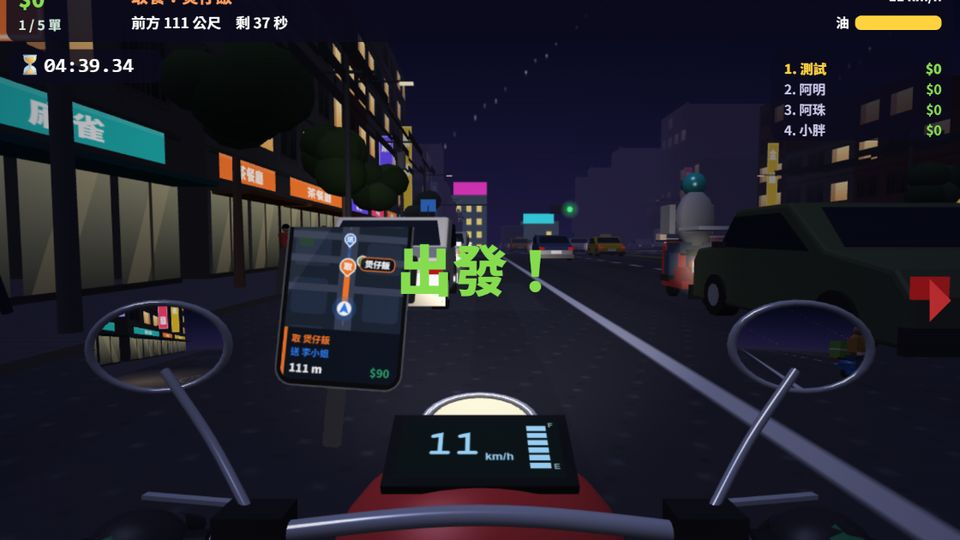
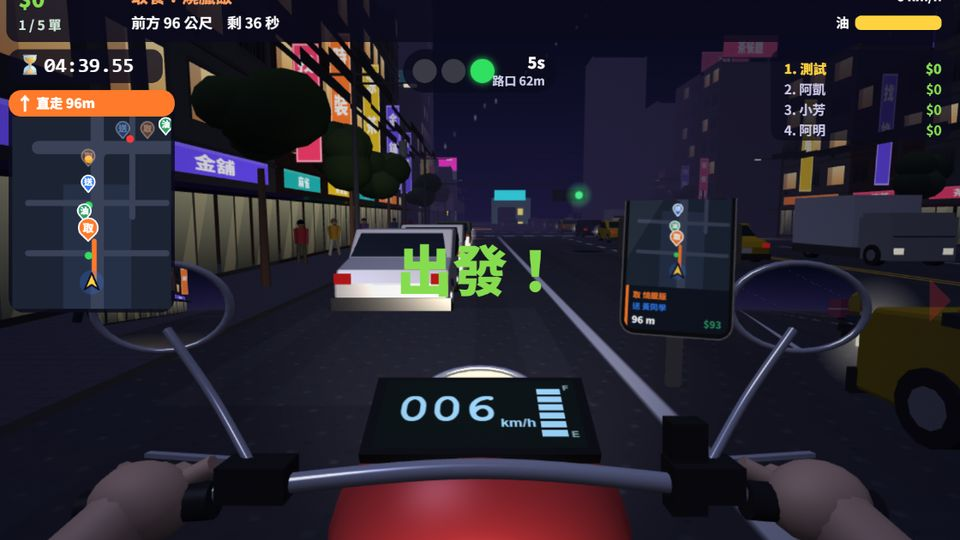
外送王：參考截圖改畫面——機車露出雙手前臂、手機夾右邊把手、三位數時速；Uber 車內雙指針儀表＋雙手握方向盤＋手機導航；腳踏車改第三人稱看得到自己騎車；客人金色人形＋驚嘆號＋光圈；街上加棕櫚樹、屋頂大看板、遠方玻璃高樓 (v281)

diff --git a/deliver3d.js b/deliver3d.js
@@ -164,8 +164,10 @@ function make(T,o){ const {W,H,lv,S,M,ROADW,LANE,PAL,shade,hash,hcol,lightOf,cro
       boxG(L,xs,xs+o*1.1,d1,d2,v0-.6,v0+.6,shd(b.col,.8*dim)); }
     // 直招牌（伸出來，正對騎士）
     if(S.pal!=='us'&&hash(id,70)<.8){ const ds=lerp(d1,d2,.12+hash(id,71)*.4),v1=G+4,v2=Math.min(hh-2,v1+56+hash(id,72)*44),tx=hcol(S.sign,id+9,74),sc=pal.sign[(S.sign.indexOf(tx)+(id%2?2:0))%pal.sign.length],uv=vUV[tx+sc],B=night?Gl:L; if(uv){ panelD(B,xs+o*3,xs+o*16,ds,v1,v2,uv,'#ffffff'); panelD(B,xs+o*3,xs+o*16,ds+1,v1,v2,uv,'#ffffff',true); boxG(L,xs,xs+o*3,ds,ds+1,v1+5,v1+7,'#555'); } }
-    // 後面再一排，路口往旁邊看才不會空空的
-    if(id%3===0){ const bh=70+hash(id,90)*170,xb2=xb-o*40,xb3=xb2-o*200,cc=shd(hcol(pal.bld,id,91),dim*.92); wallX(L,xb2,o,d1,d2,0,bh,null,cc); panelD(L,xb2,xb3,d1,0,bh,null,cc); boxG(L,xb2,xb3,d1,d2,bh,bh+2,shd('#6a6864',dim)); } }
+    // 屋頂大看板（正對騎士）
+    if(S.pal!=='us'&&hash(id,93)<.3&&d2-d1>36&&S.sign.length){ const ti=Math.floor(hash(id,94)*S.sign.length),tx=S.sign[ti],uv=hUV[tx+pal.sign[ti%pal.sign.length]],ds=d1+8,y0=hh+9,y1=hh+40,B=night?Gl:L; if(uv){ panelD(B,xs-o*6,xs-o*86,ds,y0,y1,uv,'#ffffff'); panelD(L,xs-o*6,xs-o*86,ds+1.2,y0,y1,null,shd('#4a4c52',dim),true); boxG(L,xs-o*5,xs-o*87,ds-.4,ds+1.6,y0-1.5,y0,shd('#3a3c42',dim)); for(const a of [18,46,74]) boxG(L,xs-o*a,xs-o*(a+2),ds+1.2,ds+3,hh,y1-2,shd('#55585e',dim)); } }
+    // 後面再一排，路口往旁邊看才不會空空的（偶爾一棟玻璃高樓）
+    if(id%3===0){ const tall=id%9===0,bh=tall?280+hash(id,92)*240:70+hash(id,90)*170,xb2=xb-o*40,xb3=xb2-o*(tall?120:200),cc=shd(tall?hcol(['#7f93a8','#8a9aa6','#6f8496','#a0a8b0'],id,95):hcol(pal.bld,id,91),dim*.92); if(tall) for(let y=0;y<bh;y+=34) wallX(night?Gl:L,xb2+o*.2,o,d1+4,d2-4,y,Math.min(bh,y+34),night?TILE.lit:TILE.glass,night?(hash(id,y,96)<.4?'#ffffff':'#40444c'):cc); wallX(L,xb2,o,d1,d2,0,bh,null,cc); panelD(L,xb2,xb3,d1,0,bh,null,cc); boxG(L,xb2,xb3,d1,d2,bh,bh+2,shd('#6a6864',dim)); } }
   /* ---------- 電線桿、路燈、行道樹、路邊的機車 ---------- */
   const skipI=(d,sd)=>lv.inter.some(I=>d>I.d-40&&d<I.d+130)||(sd!=null&&skipS(d,sd)),cyl=(r0,r1,h,seg)=>new T.CylinderGeometry(r0,r1,h,seg||7),mm=new T.Matrix4();
   const put=(B,g,x,y,d,cc,rx,ry,rz)=>{ mm.makeRotationFromEuler(new T.Euler(rx||0,ry||0,rz||0)); mm.setPosition(SX(x),y,-d); B.geo(g,mm,cc); };
@@ -174,6 +176,10 @@ function make(T,o){ const {W,H,lv,S,M,ROADW,LANE,PAL,shade,hash,hcol,lightOf,cro
       if(!skipI(d+150,sd)&&!skipI(d+75,sd)) for(const wx of [-11,0,11]){ let lastD=d,lastY=88; for(let i=1;i<=4;i++){ const u=i/4,dn=d+150*u,yn=88-Math.sin(u*PI)*7,X=SX(x+wx); T0.box(X-.14,X+.14,Math.min(lastY,yn)-.14,Math.max(lastY,yn)+.14,-lastD,-dn,'#26262c'); lastD=dn; lastY=yn; } } } }
   else for(const sd of [-1,1]){ const x=sd<0?-8:ROADW+8; for(let k=0;k*200<lv.L+2000;k++){ const d=k*200; if(skipI(d,sd)) continue; put(lst(d,'lit'),cyl(.9,1.3,84),x,42,d,night?'#3a3a40':shd('#55585c',dim)); lamp(sd,x,d); } }
   if(!arc){ const lf=cyl(1,1.5,38,6),ball=new T.IcosahedronGeometry(1,1); for(const sd of [-1,1]){ const x=sd<0?-18:ROADW+18; for(let k=0;k*110<lv.L+2000;k++){ const d=k*110; if(hash(k,sd,85)>.6||skipI(d,sd)) continue; const L=lst(d,'lit'); put(L,lf,x,19,d,'#5a4030'); for(let i=0;i<6;i++){ const rd=9+hash(k,i,88)*6; mm.makeScale(rd,rd*.85,rd); mm.setPosition(SX(x+(hash(k,i,86)-.5)*22),46+hash(k,i,87)*18,-(d+(hash(k,i,89)-.5)*14)); L.geo(ball,mm,shd(['#4f7a3a','#5f8a44','#3f6a30'][i%3],night?.4:dim)); } } } }
+  // 棕櫚樹（台灣、泰國、洛杉磯）
+  if(S.pal==='tw'||S.pal==='th'||S.land==='palms'){ const fr=new T.BoxGeometry(3.4,.5,21); fr.translate(0,0,-10.5); for(const sd of [-1,1]){ const x=sd<0?-13:ROADW+13; for(let k=0;k*150<lv.L+2000;k++){ const d=k*150+75; if(hash(k,sd,95)>.42||skipI(d,sd)||skipI(d+30,sd)||skipI(d-30,sd)||lv.stops.some(s2=>Math.abs(s2.d-d)<50)||lv.busStops.some(b=>Math.abs(b.d-d)<60)) continue; const L=lst(d,'lit'),ht=6+Math.floor(hash(k,sd,96)*3),bend=(hash(k,sd,97)-.5)*.5;
+      let bx=0; for(let i=0;i<ht;i++){ bx=bend*i*i*.3; put(L,cyl(1.45-i*.07,1.55-i*.07,10.6,8),x+bx,1.3+5+i*10,d,shd(i%2?'#8a7254':'#7a6448',dim)); }
+      const ty=1.3+ht*10; for(let i=0;i<10;i++){ mm.makeRotationFromEuler(new T.Euler(-(.22+hash(k,i,98)*.45),i/10*PI*2+hash(k,sd,99),0,'YXZ')); mm.setPosition(SX(x+bx),ty,-d); L.geo(fr,mm,shd(['#3f7a34','#4f8a3c','#356a2c'][i%3],night?.45:dim)); } } } }
   if(arc) for(const sd of [-1,1]){ const x=sd<0?-22:ROADW+22; for(let k=0;k*12<lv.L+1400;k++){ const d=k*12; if(hash(k,sd+5,71)>.6||lv.inter.some(I=>d>I.d-50&&d<I.d+140)||skipS(d,sd)||lv.stops.some(s2=>Math.abs(s2.d-d)<45)||lv.busStops.some(b=>Math.abs(b.d-d)<60)) continue;
       const L=lst(d,'lit'),xx=x+(hash(k,sd,72)-.5)*6,cc=shd(hcol(SCOL,k*2+(sd>0?1:0),73),dim); const X=(a,b)=>boxG(L,xx+a,xx+b,d-2.2,d+2.2,1.3+3.2,1.3+7,cc); boxG(L,xx-9,xx+9,d-1.6,d+1.6,1.3+2.5,1.3+4.5,shd('#2a2a30',dim)); X(-10,-4); X(3,9.5); boxG(L,xx-3,xx+7,d-2,d+2,1.3+7,1.3+8.6,shd('#1a1a1e',dim)); boxG(L,xx-11,xx-7,d-.9,d+.9,1.3,1.3+4,'#141416'); boxG(L,xx+7,xx+11,d-.9,d+.9,1.3,1.3+4,'#141416'); const fs=sd<0?1:-1; boxG(L,xx+fs*8,xx+fs*10.5,d-2.4,d+2.4,1.3+4,1.3+12.5,cc); boxG(L,xx+fs*9,xx+fs*10.2,d-4.4,d+4.4,1.3+12.5,1.3+13.3,'#1a1a1e'); boxG(L,xx-fs*2,xx-fs*7,d-2,d+2,1.3+7,1.3+9.5,'#1a1a1e'); } }
   /* ---------- 公車站、攤販 ---------- */
@@ -186,6 +192,8 @@ function make(T,o){ const {W,H,lv,S,M,ROADW,LANE,PAL,shade,hash,hcol,lightOf,cro
   const stopM=new Map(); for(const s2 of lv.stops){ const isG=s2.kind==='gas',cvs=canv(256,168,(c,w,h)=>{ const bg=isG?'#c8302a':s2.kind==='shop'?'#fff4ea':'#eaf2ff'; c.fillStyle=bg; c.fillRect(0,0,w,h); c.fillStyle=isG?'#f4f1ea':s2.kind==='shop'?'#ff7a2a':'#2f7cf6'; c.fillRect(0,0,w,44); c.fillStyle=isG?'#c8302a':'#fff'; c.font='700 26px '+TC; c.textAlign='center'; c.textBaseline='middle'; c.fillText(isG?'':s2.kind==='shop'?(o.JOB==='car'?'上車點':'取餐點'):(o.JOB==='car'?'下車點':'送餐點'),w/2,23); c.fillStyle=isG?'#fff':'#222'; c.font='900 40px '+TC; c.fillText(isG?'加油站':s2.name,w/2,108,236); c.strokeStyle='#2a2c30'; c.lineWidth=6; c.strokeRect(3,3,w-6,h-6); });
     const g=new T.Group(),w0=PW(SX(ROADW+26),isG?s2.d+GS.z0-14:s2.d); g.position.set(w0[0],0,w0[1]); g.rotation.y=-w0[2]; const bd=new T.Mesh(new T.PlaneGeometry(54,36),new T.MeshBasicMaterial({map:tex(cvs)})); bd.position.y=52; g.add(bd); const bk=new T.Mesh(new T.BoxGeometry(54,36,1.5),new T.MeshLambertMaterial({color:0x3a3c42})); bk.position.set(0,52,-1); bk.castShadow=true; g.add(bk); const pl=new T.Mesh(cyl(1,1.2,34),bk.material); pl.position.y=17; pl.castShadow=true; g.add(pl); scene.add(g); stopM.set(s2,g); }
   const pin=new T.Group(); { const sh=new T.Mesh(new T.SphereGeometry(5.5,18,14),new T.MeshBasicMaterial({color:0xf08a24})),cn=new T.Mesh(new T.ConeGeometry(4.8,9,18),sh.material),dot=new T.Mesh(new T.SphereGeometry(2.2,12,10),new T.MeshBasicMaterial({color:0xffffff})); sh.position.y=9.5; cn.rotation.x=PI; cn.position.y=2.9; dot.position.set(0,9.8,4.4); pin.add(sh,cn,dot); pin.mats=sh.material; scene.add(pin); }
+  const exM=new T.Group(); { const m=new T.MeshBasicMaterial({color:0xffd23f,fog:false}),a=new T.Mesh(new T.CylinderGeometry(1.25,.7,6,10),m),b=new T.Mesh(new T.SphereGeometry(1.05,10,8),m); a.position.y=4.6; exM.add(a,b); exM.visible=false; scene.add(exM); }
+  const tgtRing=new T.Mesh(new T.RingGeometry(7.5,10,36),new T.MeshBasicMaterial({color:0xffd23f,transparent:true,opacity:.85,depthWrite:false,side:T.DoubleSide})); tgtRing.rotation.x=-PI/2; tgtRing.renderOrder=4; tgtRing.visible=false; scene.add(tgtRing);
   const tgtGlow=new T.Mesh(new T.PlaneGeometry(72,92),new T.MeshBasicMaterial({color:0x86dc4f,transparent:true,opacity:.35,depthWrite:false,fog:false})); tgtGlow.rotation.x=-PI/2; tgtGlow.renderOrder=3; scene.add(tgtGlow);
   const lampOff=new T.MeshLambertMaterial({color:0x2c2c2c}),LCOL={r:'#ff3030',y:'#ffc020',g:'#30e060'},lampOn={},glowM={}; for(const k in LCOL){ lampOn[k]=new T.MeshBasicMaterial({color:col(LCOL[k])}); glowM[k]=new T.MeshBasicMaterial({map:atx,color:col(LCOL[k]),transparent:true,depthWrite:false,blending:T.AdditiveBlending,fog:false}); }
   { const u=TILE.soft; var softGeo=new T.PlaneGeometry(1,1); const a=softGeo.attributes.uv; a.setXY(0,u[0],u[3]); a.setXY(1,u[2],u[3]); a.setXY(2,u[0],u[1]); a.setXY(3,u[2],u[1]); }
@@ -228,6 +236,26 @@ function make(T,o){ const {W,H,lv,S,M,ROADW,LANE,PAL,shade,hash,hcol,lightOf,cro
   const POOL={},getPool=k=>POOL[k]||(POOL[k]={list:[],used:0});
   function getCar(k){ const P=getPool(k); let e=P.list[P.used++]; if(!e){ const m=VM[k]||(VM[k]=carModel(k)); e=new T.Group(); e.bodyM=new T.MeshPhongMaterial({color:0xffffff,shininess:70,specular:0x555555}); const b=new T.Mesh(m.body,e.bodyM),f=new T.Mesh(m.fix,fixM),l=new T.Mesh(m.lamp,lampM); e.brakeM=new T.Mesh(m.brake,lampM); b.castShadow=f.castShadow=true; e.add(b,f,l,e.brakeM); if(m.glow&&night){ const g=new T.Mesh(m.glow,glowCarM); e.add(g); } scene.add(e); P.list.push(e); } e.visible=true; return e; }
   function getScoot(){ const P=getPool('scoot'); let e=P.list[P.used++]; if(!e){ const m=VM.scoot||(VM.scoot=scootModel()); e=new T.Group(); e.bodyM=new T.MeshPhongMaterial({color:0xffffff,shininess:60,specular:0x444444}); e.shirtM=new T.MeshLambertMaterial({color:0xffffff}); e.helM=new T.MeshPhongMaterial({color:0xffffff,shininess:80,specular:0x666666}); e.boxM=new T.MeshLambertMaterial({color:0xffffff}); const a=new T.Mesh(m.body,e.bodyM),f=new T.Mesh(m.fix,fixM),s=new T.Mesh(m.shirt,e.shirtM),h=new T.Mesh(m.hel,e.helM); e.bx=new T.Mesh(m.box,e.boxM); a.castShadow=f.castShadow=s.castShadow=e.bx.castShadow=true; e.add(a,f,s,h,e.bx); if(night){ const g=new T.Mesh(softGeo,new T.MeshBasicMaterial({map:atx,color:0xfff4cc,transparent:true,depthWrite:false,blending:T.AdditiveBlending})); g.scale.setScalar(13); g.position.set(0,14,-12.6); g.rotation.y=PI; e.add(g); } scene.add(e); P.list.push(e); } e.visible=true; return e; }
+  /* 腳踏車＋騎士：會踩踏板（自己第三人稱看得到、其他騎腳踏車的人也用這個） */
+  const BKG={tire:new T.TorusGeometry(3.3,.42,8,22),rim:new T.TorusGeometry(2.9,.12,6,22),tube:new T.CylinderGeometry(.26,.26,1,7),limb:new T.CylinderGeometry(.75,.62,1,9),arm:new T.CylinderGeometry(.6,.5,1,8),torso:new T.CylinderGeometry(2.1,1.8,1,10),head:new T.SphereGeometry(1.65,14,10),hel:new T.SphereGeometry(1.95,14,8,0,PI*2,0,PI*.55),seat:new T.BoxGeometry(1.4,.6,3),bag:new T.BoxGeometry(4.2,4.4,2.6)};
+  const bkTire=new T.MeshLambertMaterial({color:0x1a1a1e}),bkMet=new T.MeshPhongMaterial({color:0xb8bcc4,shininess:90});
+  function mkBike(){ const g=new T.Group(),fr=new T.MeshPhongMaterial({color:0xffffff,shininess:60}),sh=new T.MeshLambertMaterial({color:0xffffff}),pa=new T.MeshLambertMaterial({color:0x34507a}),sk=new T.MeshLambertMaterial({color:0xefc29e}),he=new T.MeshPhongMaterial({color:0xffffff,shininess:80}),bg=new T.MeshLambertMaterial({color:0xffffff});
+    const V3=(x,y,z)=>new T.Vector3(x,y,z),put2=(m,a,b)=>{ const d=b.clone().sub(a),l=d.length()||.01; m.scale.set(1,l,1); m.position.copy(a).add(b).multiplyScalar(.5); m.quaternion.setFromUnitVectors(V3(0,1,0),d.normalize()); },mk=(geo,mt)=>{ const m=new T.Mesh(geo,mt); m.castShadow=true; g.add(m); return m; };
+    for(const z of [-6.2,6.2]){ const t=mk(BKG.tire,bkTire); t.rotation.y=PI/2; t.position.set(0,3.3,z); const r=mk(BKG.rim,bkMet); r.rotation.y=PI/2; r.position.set(0,3.3,z); }
+    const R0=V3(0,3.3,6.2),F0=V3(0,3.3,-6.2),BB=V3(0,3.8,1),S0=V3(0,10.4,3.2),H0=V3(0,10.6,-4.4),BR=V3(0,12.8,-4.9);
+    for(const [a,b] of [[R0,BB],[R0,S0],[BB,S0],[S0,H0],[BB,H0],[H0,F0],[H0,BR]]) put2(mk(BKG.tube,fr),a,b);
+    put2(mk(BKG.tube,bkTire),V3(-3.1,12.9,-4.9),V3(3.1,12.9,-4.9)); const st=mk(BKG.seat,bkTire); st.position.set(0,11.1,3.3);
+    const torso=mk(BKG.torso,sh),head=mk(BKG.head,sk),hel=mk(BKG.hel,he),bag=mk(BKG.bag,bg); hel.scale.set(1,1,1.15); put2(torso,V3(0,11.8,3.4),V3(0,18.4,-.2)); head.position.set(0,21,-1.1); hel.position.set(0,21.25,-1.05); bag.position.set(0,15.6,3.7); bag.rotation.x=-.32;
+    const ua=[mk(BKG.arm,sh),mk(BKG.arm,sh)],fa=[mk(BKG.arm,sk),mk(BKG.arm,sk)],th=[mk(BKG.limb,pa),mk(BKG.limb,pa)],sn=[mk(BKG.limb,pa),mk(BKG.limb,pa)];
+    [0,1].forEach(i=>{ const sx=i?1:-1,sp=V3(sx*2.2,17.8,-.2),el=V3(sx*2.9,15.2,-2.6),gp=V3(sx*3,13.1,-4.9); put2(ua[i],sp,el); put2(fa[i],el,gp); });
+    const hipA=V3(0,0,0),pd=V3(0,0,0),kn=V3(0,0,0);
+    g.fr=fr; g.sh=sh; g.pa=pa; g.he=he; g.bg=bg; g.bag=bag; g.ph=-1;
+    g.pedal=ph=>{ if(Math.abs(ph-g.ph)<.02) return; g.ph=ph; [0,1].forEach(i=>{ const sx=i?1:-1,a=ph+i*PI; hipA.set(sx*1.3,11.7,3.4); pd.set(sx*1.6,3.8+Math.sin(a)*2.1,1-Math.cos(a)*2.1);
+        const dy=pd.y-hipA.y,dz=pd.z-hipA.z,d=Math.min(11.6,Math.hypot(dy,dz)),L1=5.9,aa=d/2,hh=Math.sqrt(Math.max(0,L1*L1-aa*aa)),uy=dy/d,uz=dz/d; let ky=-uz,kz=uy; if(kz>0){ ky=-ky; kz=-kz; } kn.set(sx*1.45,hipA.y+uy*aa+ky*hh,hipA.z+uz*aa+kz*hh); put2(th[i],hipA,kn); put2(sn[i],kn,pd); }); };
+    g.pedal(0); scene.add(g); return g; }
+  function setBike(m,x,d,ang,tilt,ph,lk){ const w0=PW(SX(x),d); m.position.set(w0[0],0,w0[1]); m.rotation.set(0,ang-w0[2],tilt||0); m.visible=true; m.pedal(ph%(PI*2)); const k=lk.bike+lk.shirt+lk.helmet+(lk.box||''); if(m.lk!==k){ m.lk=k; m.fr.color.set(dimC(lk.bike||'#2f6fd0')); m.sh.color.set(dimC(lk.shirt||'#fff')); m.he.color.set(dimC(lk.helmet||'#fff')); m.bag.visible=!!lk.box; if(lk.box) m.bg.color.set(dimC(lk.box)); } }
+  function getBike(){ const P=getPool('bike'); let e=P.list[P.used++]; if(!e){ e=mkBike(); P.list.push(e); } return e; }
+  const myBike={};
   /* 行人：一次畫很多，用 InstancedMesh */
   const MAXP=240,PG={torso:new T.CylinderGeometry(2.3,1.9,7,9),head:new T.SphereGeometry(1.6,10,8),hair:new T.SphereGeometry(1.72,10,6,0,PI*2,0,PI*.55),leg:(()=>{ const g=new T.CylinderGeometry(1.05,.8,9.4,7); g.translate(0,-4.7,0); return g; })(),arm:(()=>{ const g=new T.CylinderGeometry(.62,.5,6.8,6); g.translate(0,-3.4,0); return g; })()};
   const IM={}; for(const k of ['torso','head','hair','legL','legR','armL','armR']){ const g=k.startsWith('leg')?PG.leg:k.startsWith('arm')?PG.arm:PG[k]; const m=new T.InstancedMesh(g,new T.MeshLambertMaterial({color:0xffffff}),MAXP); m.instanceColor=new T.InstancedBufferAttribute(new Float32Array(MAXP*3),3); m.frustumCulled=false; m.castShadow=k==='torso'||k.startsWith('leg'); scene.add(m); IM[k]=m; }
@@ -246,32 +274,33 @@ function make(T,o){ const {W,H,lv,S,M,ROADW,LANE,PAL,shade,hash,hcol,lightOf,cro
   /* ---------- 自己的車頭：車殼、儀表、把手、手套、後照鏡、手機（跟著鏡頭走） ---------- */
   const cam=new T.PerspectiveCamera(64,W/H,.9,2600); cam.rotation.order='YXZ'; scene.add(cam);
   const rearCam=new T.PerspectiveCamera(30,2.4,1,1200); scene.add(rearCam); const rt=new T.WebGLRenderTarget(512,212,{minFilter:T.LinearFilter,magFilter:T.LinearFilter});
-  function mkCockpit(L,navF){ const root=new T.Group(); cam.add(root); const NF={fog:false},bikeM=new T.MeshPhongMaterial(Object.assign({color:col(L.bike),shininess:45,specular:0x333333},NF)),blk=new T.MeshPhongMaterial(Object.assign({color:0x1c1c20,shininess:30,specular:0x222222},NF)),chr=new T.MeshPhongMaterial(Object.assign({color:0xb8bcc4,shininess:120,specular:0xffffff},NF)),slv=new T.MeshPhongMaterial(Object.assign({color:col(L.shirt),shininess:8},NF)),glv=new T.MeshPhongMaterial(Object.assign({color:0x26262c,shininess:30,specular:0x333333},NF));
+  function mkCockpit(L,navF){ const root=new T.Group(); cam.add(root); const NF={fog:false},bikeM=new T.MeshPhongMaterial(Object.assign({color:col(L.bike),shininess:45,specular:0x333333},NF)),blk=new T.MeshPhongMaterial(Object.assign({color:0x1c1c20,shininess:30,specular:0x222222},NF)),chr=new T.MeshPhongMaterial(Object.assign({color:0xb8bcc4,shininess:120,specular:0xffffff},NF)),slv=new T.MeshPhongMaterial(Object.assign({color:col(L.shirt),shininess:8},NF)),glv=new T.MeshPhongMaterial(Object.assign({color:col(L.char==='bear'?'#b88a60':L.char==='cat'?'#f4e8da':'#efc29e'),shininess:14,specular:0x222222},NF));
     const mesh=(g,m,x,y,z,p)=>{ const e=new T.Mesh(g,m); e.position.set(x,y,z); (p||root).add(e); return e; };
-    const steer=new T.Group(); steer.position.set(0,-4.2,-7); root.add(steer); // 把手會跟著轉
+    const steer=new T.Group(); steer.position.set(0,-3.55,-7.2); root.add(steer); // 把手會跟著轉
     // 車殼：前面鼓起的外殼
     const shell=mesh(new T.SphereGeometry(1,28,18),bikeM,0,-1.6,-2.6,steer); shell.scale.set(2.9,2.4,2.3); const shield=mesh(new T.SphereGeometry(1,24,14),bikeM,0,-4,1.5,root); shield.scale.set(4.1,2.5,3.2); shield.position.set(0,-8.1,-6);
     const rim=mesh(new T.TorusGeometry(1.25,.13,10,28),chr,0,.72,-4.1,steer); rim.rotation.x=-.65; rim.scale.set(1,.55,1); const hlamp=mesh(new T.CircleGeometry(1.25,24),new T.MeshBasicMaterial(Object.assign({color:night?0xfffbe0:0xdfe8ef},NF)),0,.72,-4.06,steer); hlamp.rotation.x=-.65; hlamp.scale.set(1,.55,1);
     // 儀表
-    const lcdC=canv(256,120),lcdT=tex(lcdC),dashB=mesh(new T.BoxGeometry(3.4,.2,1.65),blk,0,.82,-2.2,steer); dashB.rotation.x=.5; const lcd=mesh(new T.PlaneGeometry(3,1.38),new T.MeshBasicMaterial(Object.assign({map:lcdT},NF)),0,.93,-2.17,steer); lcd.rotation.x=-PI/2+.5;
+    const lcdC=canv(256,120),lcdT=tex(lcdC),dashB=mesh(new T.BoxGeometry(4.1,.22,1.95),blk,0,.82,-2.2,steer); dashB.rotation.x=.5; const lcd=mesh(new T.PlaneGeometry(3.7,1.7),new T.MeshBasicMaterial(Object.assign({map:lcdT},NF)),0,.93,-2.17,steer); lcd.rotation.x=-PI/2+.5;
     // 把手
     const barCurve=new T.CatmullRomCurve3([new T.Vector3(-5.4,.2,.2),new T.Vector3(-2.8,.52,.05),new T.Vector3(0,.68,-.1),new T.Vector3(2.8,.52,.05),new T.Vector3(5.4,.2,.2)]); mesh(new T.TubeGeometry(barCurve,28,.14,10),chr,0,0,0,steer);
     for(const s of [-1,1]){ const g=mesh(new T.CylinderGeometry(.26,.26,1.8,14),blk,s*4.6,.28,.17,steer); g.rotation.z=PI/2-s*.08; mesh(new T.BoxGeometry(.95,.5,.6),blk,s*3.15,.6,.05,steer); const lever=new T.Mesh(new T.BoxGeometry(2.1,.07,.13),chr); lever.position.set(s*4.3,.6,-.72); lever.rotation.y=s*.16; steer.add(lever);
       // 手套＋手指
-      const hand=new T.Group(); hand.position.set(s*4.65,.3,.2); steer.add(hand); const palm=mesh(new T.SphereGeometry(.55,14,10),glv,0,.05,.05,hand); palm.scale.set(1.25,1,.95); for(let i=0;i<4;i++){ const f=mesh(new T.CylinderGeometry(.13,.13,.6,8),glv,(i-1.5)*.26,.2,-.42,hand); f.rotation.x=1.05; }
+      const hand=new T.Group(); hand.position.set(s*4.65,.3,.2); steer.add(hand); const palm=mesh(new T.SphereGeometry(.55,14,10),glv,0,.05,.05,hand); palm.scale.set(1.25,1,.95); for(let i=0;i<4;i++){ const f=mesh(new T.CylinderGeometry(.15,.14,.66,8),glv,(i-1.5)*.27,.22,-.44,hand); f.rotation.x=1.05; } const th=mesh(new T.CylinderGeometry(.15,.15,.6,8),glv,-s*.62,.35,-.15,hand); th.rotation.z=s*1.1;
       if(s>0) steer.grip=hand; }
     // 手臂（袖子）：另外算，不跟著車頭一起轉太多
-    const arms=[-1,1].map(s=>{ const p=new T.Vector3(s*4.6,-3.75,-6.8),e=new T.Vector3(s*7.6,-6.9,-3.1),g=new T.CylinderGeometry(.48,.74,1,14),m=new T.Mesh(g,slv); root.add(m); const up=new T.Vector3(0,1,0),dir=p.clone().sub(e),len=dir.length(); m.scale.set(1,len,1); m.position.copy(p.clone().add(e).multiplyScalar(.5)); m.quaternion.setFromUnitVectors(up,dir.normalize()); return m; });
+    const seg=(p,e,r0,r1,mt)=>{ const m=new T.Mesh(new T.CylinderGeometry(r0,r1,1,14),mt); root.add(m); const dir=p.clone().sub(e),len=dir.length(); m.scale.set(1,len,1); m.position.copy(p.clone().add(e).multiplyScalar(.5)); m.quaternion.setFromUnitVectors(new T.Vector3(0,1,0),dir.normalize()); return m; };
+    const arms=[-1,1].map(s=>{ const p=new T.Vector3(s*4.6,-3.1,-7),e=new T.Vector3(s*7.4,-6.6,-3.4); seg(e,new T.Vector3(s*9.3,-8.8,-1.2),.8,.95,slv); return seg(p,e,.44,.66,glv); }); // 露出來的手臂、短袖
     // 後照鏡：一面照左後、一面照右後（真的把後面的路畫進去）
     for(const s of [-1,1]){ const stalk=new T.CatmullRomCurve3([new T.Vector3(s*3.2,.65,.0),new T.Vector3(s*4.1,1.6,-.55),new T.Vector3(s*5.0,2.6,-.85)]); mesh(new T.TubeGeometry(stalk,10,.075,8),chr,0,0,0,steer);
       const fr=new T.Group(); fr.position.set(s*5.15,2.95,-1); fr.rotation.set(.08,-s*.22,0); steer.add(fr); const bk=mesh(new T.CircleGeometry(1,28),blk,0,0,-.02,fr); bk.scale.set(1,.72,1); const ring=mesh(new T.TorusGeometry(1,.075,8,30),chr,0,0,0,fr); ring.scale.set(1,.72,1);
       const mg=new T.CircleGeometry(.95,28); const a=mg.attributes.uv; for(let i=0;i<a.count;i++){ const uu=a.getX(i); a.setX(i,s<0?1-uu/2:.5-uu/2); } const gl=new T.Mesh(mg,new T.MeshBasicMaterial(Object.assign({map:rt.texture},NF))); gl.scale.set(1,.72,1); gl.position.z=.02; fr.add(gl); }
     // 手機（導航）
-    const phC=canv(320,420),phT=tex(phC); const ph=mesh(new T.PlaneGeometry(4.0,5.25),new T.MeshBasicMaterial(Object.assign({map:phT,transparent:true},NF)),-2.05,2.25,-.5,steer); ph.rotation.x=-.08;
+    const phC=canv(320,420),phT=tex(phC); const ph=mesh(new T.PlaneGeometry(3.3,4.33),new T.MeshBasicMaterial(Object.assign({map:phT,transparent:true},NF)),2.95,2.45,-.15,steer); ph.rotation.set(-.08,-.12,0); mesh(new T.BoxGeometry(.5,1.3,.4),blk,2.95,.75,-.05,steer); // 手機夾在右邊把手
     root.traverse(m=>{ if(m.isMesh){ m.castShadow=false; m.receiveShadow=false; m.renderOrder=10; } });
     let lastUI=-1;
     return {root,steer,shell,arms,lcdC,lcdT,phC,phT,update(st,now){ if(now-lastUI<.09) return; lastUI=now;
-        const c=lcdC.getContext('2d'),kmh=Math.round(Math.abs(st.v)/250*60); c.fillStyle='#0c1418'; c.fillRect(0,0,256,120); c.fillStyle=night?'#9fd8ff':'#bdeaff'; c.font='700 72px "Courier New",monospace'; c.textAlign='right'; c.textBaseline='middle'; c.fillText(String(kmh),130,58); c.font='700 19px sans-serif'; c.textAlign='left'; c.fillText('km/h',136,82);
+        const c=lcdC.getContext('2d'),kmh=Math.round(Math.abs(st.v)/250*60); c.fillStyle='#0c1418'; c.fillRect(0,0,256,120); c.fillStyle=night?'#9fd8ff':'#bdeaff'; c.font='700 72px "Courier New",monospace'; c.textAlign='right'; c.textBaseline='middle'; c.fillText(String(Math.min(999,kmh)).padStart(3,'0'),150,58); c.font='700 19px sans-serif'; c.textAlign='left'; c.fillText('km/h',154,82);
         const fb=Math.ceil(cl(st.fuel/100,0,1)*6); for(let i=0;i<6;i++){ c.fillStyle=i<fb?(st.fuel<20?'#ff6a5a':(night?'#9fd8ff':'#bdeaff')):'rgba(189,234,255,.12)'; c.fillRect(204,92-i*15,32,11); } c.fillStyle='rgba(189,234,255,.7)'; c.font='700 14px sans-serif'; c.fillText('F',240,16); c.fillText('E',240,100); lcdT.needsUpdate=true;
         const p=phC.getContext('2d'); p.setTransform(1,0,0,1,0,0); p.clearRect(0,0,320,420); p.setTransform(1.32,0,0,1.32,160+122*1.32,176*1.32+60); phoneNav(p,st.nav,st.t,night); p.setTransform(1,0,0,1,0,0); phT.needsUpdate=true; } }; }
   const cockpits={};
@@ -287,7 +316,7 @@ function make(T,o){ const {W,H,lv,S,M,ROADW,LANE,PAL,shade,hash,hcol,lightOf,cro
     for(const L of LIGHTS){ const dz=L.I.d-cd,on=dz>-300&&dz<1400; L.g.visible=on; if(!on) continue; const Lg=lightOf(L.I,simT); for(const k in L.lamps){ const a=Lg.col===k; L.lamps[k].l.material=a?lampOn[k]:lampOff; L.lamps[k].gl.visible=a; } if(L.cd&&dz<520){ const s=String(Math.ceil(Lg.left)).padStart(2,'0')+Lg.col; if(s!==L.cd.last){ L.cd.last=s; const c=L.cd.cv2.getContext('2d'); c.fillStyle='#111'; c.fillRect(0,0,64,44); c.fillStyle=LCOL[Lg.col]; c.font='900 38px monospace'; c.textAlign='center'; c.textBaseline='middle'; c.fillText(s.slice(0,2),32,24); L.cd.ct.needsUpdate=true; } } }
     for(const [s2,g] of stopM){ g.visible=near(s2.d); }
     // 目標：綠框、導航針、門口等的客人
-    if(target){ pin.visible=true; tgtGlow.visible=true; { const w0=PW(SX(ROADW+26),target.d); pin.position.set(w0[0],74+Math.sin(t*3)*3,w0[1]); } pin.rotation.y=t*1.6; pin.mats.color.set(target.kind==='shop'?0xff7a2a:0x2f7cf6); tgtGlow.material.color.set(target.kind==='shop'?0xff9a4a:0x4a9aff); { const w0=PW(SX(324),target.d); tgtGlow.position.set(w0[0],.2,w0[1]); tgtGlow.rotation.set(-PI/2,0,w0[2]*0); tgtGlow.rotation.order='YXZ'; tgtGlow.rotation.set(-PI/2,-w0[2],0); } tgtGlow.material.opacity=.26+.13*Math.sin(t*6); if(target.kind==='cus') ped(ROADW+12,1.3,target.d,M>0?-PI/2:PI/2,'#d8a030',3,0,1); } else { pin.visible=false; tgtGlow.visible=false; }
+    if(target){ pin.visible=true; tgtGlow.visible=true; { const w0=PW(SX(ROADW+26),target.d); pin.position.set(w0[0],74+Math.sin(t*3)*3,w0[1]); } pin.rotation.y=t*1.6; pin.mats.color.set(target.kind==='shop'?0xff7a2a:0x2f7cf6); tgtGlow.material.color.set(target.kind==='shop'?0xff9a4a:0x4a9aff); { const w0=PW(SX(324),target.d); tgtGlow.position.set(w0[0],.2,w0[1]); tgtGlow.rotation.set(-PI/2,0,w0[2]*0); tgtGlow.rotation.order='YXZ'; tgtGlow.rotation.set(-PI/2,-w0[2],0); } tgtGlow.material.opacity=.26+.13*Math.sin(t*6); ped(ROADW+12,1.3,target.d,M>0?-PI/2:PI/2,'#f0b828',3,0,1); { const w0=PW(SX(ROADW+12),target.d); exM.visible=tgtRing.visible=true; exM.position.set(w0[0],25+Math.abs(Math.sin(t*3.2))*2.5,w0[1]); exM.rotation.y=t*2; tgtRing.position.set(w0[0],1.45,w0[1]); const k=1+.12*Math.sin(t*5); tgtRing.scale.set(k,k,1); } } else { pin.visible=false; tgtGlow.visible=false; exM.visible=tgtRing.visible=false; }
     // 車流
     const setCar=(e,x,d,ang,c0,kind,brake,yawOk)=>{ const m=getCar(kind),w0=PW(SX(x),d); m.position.set(w0[0],0,w0[1]); m.rotation.y=ang-w0[2]; m.bodyM.color.set(night?shade(c0,.7):c0); m.brakeM.visible=!!brake; return m; };
     const setScoot=(x,d,ang,o2)=>{ const m=getScoot(),w0=PW(SX(x),d); m.position.set(w0[0],0,w0[1]); m.rotation.set(0,ang-w0[2],o2.tilt||0); m.bodyM.color.set(night?shade(o2.col,.75):o2.col); m.shirtM.color.set(night?shade(o2.shirt,.7):o2.shirt); m.helM.color.set(night?shade(o2.helm,.75):o2.helm); m.bx.visible=!!o2.box; if(o2.box) m.boxM.color.set(night?shade(o2.box,.75):o2.box); return m; };
@@ -299,7 +328,7 @@ function make(T,o){ const {W,H,lv,S,M,ROADW,LANE,PAL,shade,hash,hcol,lightOf,cro
     // 路邊停車
     let dn=0; for(const pk of lv.parked){ if(!near(pk.d)) continue; const m=setCar(null,LANE[4]+6,pk.d,0,pk.col,Math.floor(pk.d)%3===0?'hatch':'car',false); if(pk.door>0&&dn<doorPool.length){ const g=doorPool[dn++]; g.visible=true; const side=LANE[4]+6-13.8,w0=PW(SX(side),pk.d+6); g.position.set(w0[0],0,w0[1]); g.rotation.y=-M*pk.door*1.0-w0[2]; g.mat.color.set(pk.col); } } for(;dn<doorPool.length;dn++) doorPool[dn].visible=false;
     // 其他外送員
-    for(const q of riders||[]){ if(!near(q.d)) continue; if(o.JOB==='car') setCar(null,q.x,q.d,0,q.look.bike,'hatch',false); else if(o.JOB==='walk') ped(q.x,1.3,q.d,0,q.look.shirt||'#ffd23f',q.d*.11,t,1.05); else setScoot(q.x,q.d,0,{col:q.look.bike,shirt:q.look.shirt,helm:q.look.helmet,box:o.JOB==='bike'?null:q.look.box}); if(q.name&&Math.abs(q.d-cd)<320&&q.d>cd) labels.push({k:'name',x:q.x,d:q.d,h:34,txt:q.name.replace('（電腦）',''),a:cl((320-(q.d-cd))/120,0,1)*.85}); }
+    for(const q of riders||[]){ if(!near(q.d)) continue; if(o.JOB==='car') setCar(null,q.x,q.d,0,q.look.bike,'hatch',false); else if(o.JOB==='walk') ped(q.x,1.3,q.d,0,q.look.shirt||'#ffd23f',q.d*.11,t,1.05); else if(o.JOB==='bike') setBike(getBike(),q.x,q.d,0,0,q.d*.09,{bike:q.look.bike,shirt:q.look.shirt,helmet:q.look.helmet,box:q.look.box}); else setScoot(q.x,q.d,0,{col:q.look.bike,shirt:q.look.shirt,helm:q.look.helmet,box:q.look.box}); if(q.name&&Math.abs(q.d-cd)<320&&q.d>cd) labels.push({k:'name',x:q.x,d:q.d,h:34,txt:q.name.replace('（電腦）',''),a:cl((320-(q.d-cd))/120,0,1)*.85}); }
     // 人行道上走路的人
     for(const sd of [-1,1]){ const x0=arc?(sd<0?-58:ROADW+58):(sd<0?-30:ROADW+30); for(let k=Math.floor((cd-120)/80);k<(cd+600)/80;k++){ if(hash(k,sd,91)>S.peds*.6+.25) continue; const dir=hash(k,sd,92)<.5?1:-1,d=k*80+(((t*13*dir+hash(k,sd,93)*80)%80)+80)%80; if(lv.inter.some(I=>d>I.d-36&&d<I.d+126)||onEx(d,sd)) continue; ped(x0+(hash(k,sd,94)-.5)*8,1.3,d,dir>0?0:PI,hcol(SHIRT,k*3+sd,95),k+sd*.37,t,.97+hash(k,sd,97)*.1); } }
     // 亂穿越的人、狗
@@ -320,8 +349,8 @@ function make(T,o){ const {W,H,lv,S,M,ROADW,LANE,PAL,shade,hash,hcol,lightOf,cro
       for(const h of lv.holes){ if(Math.abs(pd-h.d)<8&&Math.abs(px-h.x)<h.r+6&&!V.hole[h.d]){ V.hole[h.d]=1; V.bump=1; } } V.bump=Math.max(0,V.bump-dt*3.4);
       sync(st,now);
       const sp=Math.min(1,Math.abs(v)/250),trem=Math.sin(t*37)*.035+Math.sin(t*61)*.025,rough=(.25+sp)*trem,bump=Math.sin(t*44)*V.bump*.55,fl=Math.min(1.3,fall||0)/1.3,pitch=-.105+V.ax*-.00013+bump*.02+rough*.004,yaw=-lean*.06,roll=-lean*.11;
-      V.fov+=(60+sp*17-V.fov)*Math.min(1,dt*3); const wc=PW(SX(px)+lean*.8,pd-10),hA=PA.at(0,pd+30)[2],hc=wc[2]*.45+hA*.55,X=wc[0],Z=wc[1],Y=(o.JOB==='walk'?15+Math.abs(Math.sin(t*9))*Math.min(1,Math.abs(v)/40)*.9:o.JOB==='car'?20:o.JOB==='bike'?21:23)+rough*(o.JOB==='walk'?0:.18)+bump*.5+V.ax*.0009+(fl>0?-fl*fl*9:0),fx=Math.sin(hc),fz=-Math.cos(hc);
-      cam.position.set(X,Y,Z); cam.rotation.set(pitch+(fl>0?fl*.35:0),yaw-hc,roll+(fl>0?Math.sin(fl*PI)*1.05+fl*.5:0)); cam.fov=V.fov; cam.aspect=vw/H; cam.updateProjectionMatrix(); cam.updateMatrixWorld(true);
+      V.fov+=(60+sp*17-V.fov)*Math.min(1,dt*3); const tp=o.JOB==='bike',wc=PW(SX(px)+lean*(tp?.3:.8),pd-(tp?46:10)),hA=PA.at(0,pd+30)[2],hc=wc[2]*.45+hA*.55,X=wc[0],Z=wc[1],Y=(o.JOB==='walk'?15+Math.abs(Math.sin(t*9))*Math.min(1,Math.abs(v)/40)*.9:o.JOB==='car'?20:tp?31:23)+rough*(o.JOB==='walk'?0:.18)+bump*.5+V.ax*.0009+(fl>0?-fl*fl*9:0),fx=Math.sin(hc),fz=-Math.cos(hc);
+      cam.position.set(X,Y,Z); cam.rotation.set(pitch+(tp?-.13:0)+(fl>0?fl*.35:0),yaw*(tp?.4:1)-hc,roll+(fl>0?Math.sin(fl*PI)*1.05+fl*.5:0)); cam.fov=V.fov; cam.aspect=vw/H; cam.updateProjectionMatrix(); cam.updateMatrixWorld(true);
       head.position.set(X,16,Z); head.target.position.set(X+fx*200-Math.sin(yaw)*90,0,Z+fz*200);
       // 影子、地標跟著騎士
       if(!night){ sun.target.position.set(X+fx*170,0,Z+fz*170); sun.position.set(X-200,eve?120:320,Z-40); }
@@ -330,7 +359,8 @@ function make(T,o){ const {W,H,lv,S,M,ROADW,LANE,PAL,shade,hash,hcol,lightOf,cro
       for(const k in cockpits) cockpits[k].root.visible=false; frame++;
       if(frame%2===0||st.two){ { const wr=PW(SX(px),pd-12); rearCam.position.set(wr[0],17,wr[1]); rearCam.rotation.set(0,PI-wr[2],0); } rearCam.updateMatrixWorld(true); const sa=r.shadowMap.autoUpdate; r.shadowMap.autoUpdate=false; pin.visible&&(pin.visible=pin.visible); r.setRenderTarget(rt); r.clear(); r.render(scene,rearCam); r.setRenderTarget(null); r.shadowMap.autoUpdate=sa; }
       // 車頭
-      const ck=cockpits[n]||(cockpits[n]=mkCockpit(st.look)); ck.root.visible=o.JOB!=='walk'&&o.JOB!=='car'; if(o.JOB==='bike'&&ck.shell) ck.shell.visible=false; /* 走路、開車不畫機車車頭（開車的儀表板在 2D 畫） */ ck.steer.rotation.set(-V.ax*.00016+bump*.018,-lean*.17*1,-lean*.02); ck.root.position.set(rough*.02,rough*.03-V.ax*.0007+bump*.08-(fl*1.4),0); ck.root.rotation.z=-lean*.055; if(ck.steer.grip) ck.steer.grip.rotation.x=st.gas?-.28:0; ck.update(st,now);
+      const ck=cockpits[n]||(cockpits[n]=mkCockpit(st.look)); ck.root.visible=o.JOB!=='walk'&&o.JOB!=='car'&&o.JOB!=='bike'; if(o.JOB==='bike'&&ck.shell) ck.shell.visible=false; /* 走路、開車不畫機車車頭（開車的儀表板在 2D 畫） */ ck.steer.rotation.set(-V.ax*.00016+bump*.018,-lean*.17*1,-lean*.02); ck.root.position.set(rough*.02,rough*.03-V.ax*.0007+bump*.08-(fl*1.4),0); ck.root.rotation.z=-lean*.055; if(ck.steer.grip) ck.steer.grip.rotation.x=st.gas?-.28:0; ck.update(st,now);
+      for(const k in myBike) myBike[k].visible=false; if(tp){ const bk=myBike[n]||(myBike[n]=mkBike()); V.ped=(V.ped||0)+Math.abs(v)*dt*.045; setBike(bk,px,pd,0,-lean*.28-(fl>0?fl*1.2:0),V.ped,st.look); }
       // 真正畫出來
       r.setViewport(vx*Q,0,vw*Q,H*Q); r.setScissor(vx*Q,0,vw*Q,H*Q); r.setScissorTest(true); r.render(scene,cam); r.setScissorTest(false);
       // 順便算效能：太慢就自動降畫質

diff --git a/deliver.js b/deliver.js
@@ -1003,7 +1003,7 @@ function create(env,opts){
     if(G3){ for(const l of G3.labels()){ const q=G3.project(l.x,l.d,l.h,vx,vw); if(!q) continue; if(l.k==='warn'){ c.fillStyle='#ff3030'; c.strokeStyle='#fff'; c.lineWidth=3; c.font='900 34px '+TC; c.textAlign='center'; c.textBaseline='middle'; c.strokeText('！',q[0],q[1]); c.fillText('！',q[0],q[1]); } else { c.globalAlpha=l.a; c.font='700 11px '+TC; const w2=c.measureText(l.txt).width+10; c.fillStyle='rgba(11,10,28,.6)'; rr(c,q[0]-w2/2,q[1]-16,w2,15,7); c.fill(); c.fillStyle='#fff'; c.textAlign='center'; c.textBaseline='middle'; c.fillText(l.txt,q[0],q[1]-8.5); c.globalAlpha=1; } } }
     else drawCockpit(c,vx,vw,p.look,p.v,p.lean,t,mL,mR,p.fuel,S.night,navI);
     if(p.fall>0){ c.fillStyle='rgba(255,60,60,'+Math.min(.35,p.fall*.3)+')'; c.fillRect(vx,0,vw,H); for(let i=0;i<5;i++){ const a=t*5+i*1.26; c.fillStyle='#ffd23f'; c.font='22px sans-serif'; c.textAlign='center'; c.fillText('★',vx+vw/2+Math.cos(a)*90,H*.42+Math.sin(a)*30); } }
-    if(G3&&JOB==='car') drawCab(vx,vw,p);
+    if(G3&&JOB==='car') drawCab(vx,vw,p,navI);
     // 取餐／送餐進度
     if(p.stopT>0){ const w2=160; c.fillStyle='rgba(11,10,28,.8)'; rr(c,vx+vw/2-w2/2-6,H*.6-6,w2+12,30,10); c.fill(); c.fillStyle='#3a3670'; rr(c,vx+vw/2-w2/2,H*.6+8,w2,10,5); c.fill(); c.fillStyle='#86dc4f'; rr(c,vx+vw/2-w2/2,H*.6+8,w2*p.stopT/.8,10,5); c.fill();
       c.fillStyle='#fff'; c.font='900 11px '+TC; c.textAlign='center'; c.textBaseline='middle'; c.fillText(p.stopK==='gas'?'加油中…':(p.phase==='pick'?JW.pick:JW.drop)+'中…',vx+vw/2,H*.6); }
@@ -1015,17 +1015,46 @@ function create(env,opts){
     hud(p,vx,vw,n);
     c.restore(); }
   /* Uber 開車：車內儀表板、方向盤、A 柱、車內後照鏡（台灣方向盤在左，靠左行駛的城市在右） */
-  function drawCab(vx,vw,p){ const s=vw/800,wx=vx+vw/2+M*-vw*.2,top=H*.8,night=S.night,dash=night?'#141418':'#24252c';
-    c.save(); c.fillStyle=night?'#0c0c10':'#1c1d22'; c.beginPath(); c.moveTo(vx,0); c.lineTo(vx+60*s,0); c.lineTo(vx+130*s,H*.62); c.lineTo(vx,H*.66); c.closePath(); c.fill(); c.beginPath(); c.moveTo(vx+vw,0); c.lineTo(vx+vw-60*s,0); c.lineTo(vx+vw-130*s,H*.62); c.lineTo(vx+vw,H*.66); c.closePath(); c.fill();
-    c.fillStyle=dash; c.beginPath(); c.moveTo(vx,H); c.lineTo(vx,top+10); c.quadraticCurveTo(vx+vw/2,top-34*s,vx+vw,top+10); c.lineTo(vx+vw,H); c.closePath(); c.fill(); c.fillStyle='rgba(255,255,255,.06)'; c.fillRect(vx,top+6,vw,3);
-    // 儀表
-    c.fillStyle='#08090c'; rr(c,wx-62*s,top-4,124*s,40*s,10*s); c.fill(); c.fillStyle=night?'#8fd8ff':'#bdeaff'; c.font='700 '+Math.round(24*s)+'px monospace'; c.textAlign='center'; c.textBaseline='middle'; c.fillText(Math.round(Math.abs(p.v)/250*60)+' km/h',wx,top+16*s);
+  function drawCab(vx,vw,p,navI){ const s=vw/800,cx=vx+vw/2,wx=cx-M*vw*.16,night=S.night,top=H*.73,kmh=Math.round(Math.abs(p.v)/250*60),PI=Math.PI;
+    c.save();
+    // A 柱
+    c.fillStyle=night?'#0c0c10':'#1c1d22'; c.beginPath(); c.moveTo(vx,0); c.lineTo(vx+60*s,0); c.lineTo(vx+130*s,top); c.lineTo(vx,top+20*s); c.closePath(); c.fill(); c.beginPath(); c.moveTo(vx+vw,0); c.lineTo(vx+vw-60*s,0); c.lineTo(vx+vw-130*s,top); c.lineTo(vx+vw,top+20*s); c.closePath(); c.fill();
+    // 儀表板（擋風玻璃下緣反光一條）
+    let g=c.createLinearGradient(0,top-24*s,0,H); g.addColorStop(0,night?'#1d1e24':'#3c3d44'); g.addColorStop(.18,night?'#141418':'#26272d'); g.addColorStop(1,night?'#060608':'#111114'); c.fillStyle=g;
+    c.beginPath(); c.moveTo(vx,H); c.lineTo(vx,top+16*s); c.bezierCurveTo(vx+vw*.3,top-18*s,vx+vw*.7,top-18*s,vx+vw,top+16*s); c.lineTo(vx+vw,H); c.closePath(); c.fill();
+    c.strokeStyle='rgba(255,255,255,.09)'; c.lineWidth=2; c.beginPath(); c.moveTo(vx,top+14*s); c.bezierCurveTo(vx+vw*.3,top-20*s,vx+vw*.7,top-20*s,vx+vw,top+14*s); c.stroke();
+    // 冷氣出風口
+    for(const ax of [cx+M*vw*.06,cx+M*vw*.42]){ c.fillStyle='#0d0d10'; rr(c,ax-34*s,top+40*s,68*s,26*s,6*s); c.fill(); c.strokeStyle='#2c2d33'; c.lineWidth=2*s; for(let i=1;i<4;i++){ c.beginPath(); c.moveTo(ax-30*s,top+40*s+i*6.5*s); c.lineTo(ax+30*s,top+40*s+i*6.5*s); c.stroke(); } }
+    // 儀表罩＋兩個指針錶＋中間數字
+    const gy=top+30*s; c.fillStyle=night?'#09090c':'#18191d'; c.beginPath(); c.ellipse(wx,gy+4*s,150*s,52*s,0,PI,0); c.fill();
+    const gauge=(gx,val,max,lab,step)=>{ const R=40*s,a0=PI*.75,a1=PI*2.25; let gg=c.createRadialGradient(gx,gy,4*s,gx,gy,R); gg.addColorStop(0,night?'#1a2a3a':'#ffffff'); gg.addColorStop(1,night?'#0c141e':'#d4d8de'); c.fillStyle=gg; c.beginPath(); c.arc(gx,gy,R,0,7); c.fill(); c.strokeStyle='#9aa0a8'; c.lineWidth=3*s; c.stroke();
+      c.strokeStyle=night?'#8fd8ff':'#222'; c.fillStyle=night?'#8fd8ff':'#222'; c.font='700 '+Math.max(7,Math.round(8*s))+'px sans-serif'; c.textAlign='center'; c.textBaseline='middle';
+      for(let v=0;v<=max;v+=step/2){ const a=a0+(a1-a0)*v/max,big=v%step===0; c.lineWidth=(big?2:1)*s; c.beginPath(); c.moveTo(gx+Math.cos(a)*R*.86,gy+Math.sin(a)*R*.86); c.lineTo(gx+Math.cos(a)*R*(big?.7:.78),gy+Math.sin(a)*R*(big?.7:.78)); c.stroke(); if(big&&R>30) c.fillText(String(v/(max>20?1:1)),gx+Math.cos(a)*R*.52,gy+Math.sin(a)*R*.52); }
+      const a=a0+(a1-a0)*Math.min(1,val/max); c.strokeStyle='#e8302a'; c.lineWidth=2.6*s; c.beginPath(); c.moveTo(gx-Math.cos(a)*6*s,gy-Math.sin(a)*6*s); c.lineTo(gx+Math.cos(a)*R*.82,gy+Math.sin(a)*R*.82); c.stroke(); c.fillStyle='#333'; c.beginPath(); c.arc(gx,gy,4.5*s,0,7); c.fill();
+      c.fillStyle=night?'#6aa8c8':'#666'; c.font='700 '+Math.max(6,Math.round(7*s))+'px sans-serif'; c.fillText(lab,gx,gy+R*.5); };
+    gauge(wx-74*s,Math.min(7,.8+kmh/22+(p.v>5?Math.sin(simT*3)*.15:0)),8,'x1000rpm',1); gauge(wx+74*s,kmh,160,'km/h',20);
+    c.fillStyle='#050608'; rr(c,wx-28*s,gy-14*s,56*s,30*s,5*s); c.fill(); c.fillStyle=night?'#8fd8ff':'#e8f4ff'; c.font='700 '+Math.round(20*s)+'px "Courier New",monospace'; c.textAlign='center'; c.textBaseline='middle'; c.fillText(String(Math.min(999,kmh)).padStart(3,'0'),wx,gy+1*s);
+    c.font='900 '+Math.round(10*s)+'px sans-serif'; c.fillStyle='rgba(80,220,120,.35)'; c.fillText('◀',wx-20*s,gy-24*s); c.fillText('▶',wx+20*s,gy-24*s); c.fillStyle='rgba(255,80,60,.6)'; c.fillText('▲',wx,gy-24*s);
+    if(JB.fuel){ c.fillStyle=p.fuel<20?'#ff6a5a':'#ffd23f'; c.fillRect(wx-22*s,gy+19*s,44*s*Math.max(0,Math.min(1,p.fuel/100)),3*s); }
     // 方向盤（跟著轉）
-    c.save(); c.translate(wx,top+44*s); c.rotate(p.lean*.55*M); c.strokeStyle='#0d0d10'; c.lineWidth=16*s; c.beginPath(); c.arc(0,0,88*s,Math.PI*1.05,Math.PI*1.95); c.stroke(); c.lineWidth=12*s; c.beginPath(); c.moveTo(-80*s,-18*s); c.lineTo(80*s,-18*s); c.stroke(); c.fillStyle='#2a2b32'; c.beginPath(); c.arc(0,-8*s,24*s,0,7); c.fill(); c.fillStyle='#ffd23f'; c.font='900 '+Math.round(12*s)+'px '+TC; c.fillText('U',0,-8*s); c.restore();
+    const wy=top+178*s,R=124*s,rot=p.lean*.55*M; c.save(); c.translate(wx,wy); c.rotate(rot);
+    c.strokeStyle='#121215'; c.lineWidth=17*s; for(const a of [PI+.42,-.42]){ c.beginPath(); c.moveTo(0,0); c.lineTo(Math.cos(a)*R,Math.sin(a)*R); c.stroke(); } c.lineWidth=15*s; c.beginPath(); c.moveTo(0,0); c.lineTo(0,R); c.stroke();
+    c.lineWidth=24*s; c.beginPath(); c.arc(0,0,R,0,7); c.stroke(); c.strokeStyle='rgba(255,255,255,.1)'; c.lineWidth=3*s; c.beginPath(); c.arc(0,0,R-7*s,PI*1.15,PI*1.85); c.stroke();
+    c.fillStyle='#1c1d22'; c.beginPath(); c.ellipse(0,6*s,46*s,38*s,0,0,7); c.fill(); c.strokeStyle='#2c2d33'; c.lineWidth=2*s; c.stroke(); c.fillStyle='#8a8e96'; c.beginPath(); c.ellipse(0,4*s,12*s,8*s,0,0,7); c.fill();
+    c.restore();
+    // 手臂＋手（握在十點和兩點）
+    const skin=p.look&&p.look.char==='bear'?'#b88a60':p.look&&p.look.char==='cat'?'#f4e8da':'#efc29e',shirt=(p.look&&p.look.shirt)||'#4f9dff';
+    for(const [a,sd] of [[PI+.62,-1],[-.62,1]]){ const hx=wx+Math.cos(a+rot)*R,hy=wy+Math.sin(a+rot)*R,bx=wx+sd*210*s,by=H+20*s,dx=bx-hx,dy=by-hy,l=Math.hypot(dx,dy),nx=-dy/l,ny=dx/l,w0=17*s,w1=30*s;
+      g=c.createLinearGradient(hx,hy,bx,by); g.addColorStop(0,skin); g.addColorStop(1,shade(skin,.8)); c.fillStyle=g; c.beginPath(); c.moveTo(hx+nx*w0,hy+ny*w0); c.lineTo(bx+nx*w1,by+ny*w1); c.lineTo(bx-nx*w1,by-ny*w1); c.lineTo(hx-nx*w0,hy-ny*w0); c.closePath(); c.fill();
+      c.fillStyle=shirt; const sx=hx+dx*.82,sy=hy+dy*.82; c.beginPath(); c.moveTo(sx+nx*w1*1.05,sy+ny*w1*1.05); c.lineTo(bx+nx*w1*1.15,by+ny*w1*1.15); c.lineTo(bx-nx*w1*1.15,by-ny*w1*1.15); c.lineTo(sx-nx*w1*1.05,sy-ny*w1*1.05); c.closePath(); c.fill();
+      c.save(); c.translate(hx,hy); c.rotate(Math.atan2(dy,dx)-PI/2); c.fillStyle=skin; c.beginPath(); c.ellipse(0,2*s,22*s,24*s,0,0,7); c.fill(); c.strokeStyle=shade(skin,.72); c.lineWidth=2*s; c.stroke();
+      c.strokeStyle=shade(skin,.7); c.lineWidth=1.6*s; for(let i=0;i<4;i++){ c.beginPath(); c.moveTo((i-1.5)*9*s,-14*s); c.lineTo((i-1.5)*9.5*s,6*s); c.stroke(); } c.restore(); }
+    // 手機（導航）夾在冷氣口上
+    if(navI){ const phx=cx+M*vw*.38,phy=top-46*s,k=.72*s; c.fillStyle='#202126'; rr(c,phx-6*s,top-4*s,12*s,48*s,4*s); c.fill(); c.save(); c.translate(phx+122*k,phy+176*k); c.scale(k,k); phoneNav(c,navI,t,night); c.restore(); }
     // 車內後照鏡
-    c.fillStyle='#111'; rr(c,vx+vw/2-70*s,6*s,140*s,30*s,8*s); c.fill(); const g=c.createLinearGradient(0,8*s,0,34*s); g.addColorStop(0,night?'#2a3048':'#9ab8d8'); g.addColorStop(1,night?'#141824':'#5a6a7a'); c.fillStyle=g; rr(c,vx+vw/2-64*s,10*s,128*s,22*s,6*s); c.fill();
+    c.fillStyle='#111'; rr(c,cx-70*s,6*s,140*s,30*s,8*s); c.fill(); g=c.createLinearGradient(0,8*s,0,34*s); g.addColorStop(0,night?'#2a3048':'#9ab8d8'); g.addColorStop(1,night?'#141824':'#5a6a7a'); c.fillStyle=g; rr(c,cx-64*s,10*s,128*s,22*s,6*s); c.fill();
     // 乘客（後座）
-    if(p.phase==='drop'){ c.fillStyle='#e8c8a8'; c.beginPath(); c.arc(vx+vw/2+M*24*s,22*s,7*s,0,7); c.fill(); c.fillStyle='#3a2a1a'; c.beginPath(); c.arc(vx+vw/2+M*24*s,19*s,7*s,Math.PI,0); c.fill(); }
+    if(p.phase==='drop'){ c.fillStyle='#e8c8a8'; c.beginPath(); c.arc(cx+M*24*s,22*s,7*s,0,7); c.fill(); c.fillStyle='#3a2a1a'; c.beginPath(); c.arc(cx+M*24*s,19*s,7*s,PI,0); c.fill(); }
     c.restore(); }
   /* 導航：目的地頭上的標籤、下一個路口的紅綠燈、像手機地圖的小地圖（取餐橘色、送餐藍色） */
   const PCK='#ff7a2a',DRP='#2f7cf6';

diff --git a/index.html b/index.html
@@ -275,7 +275,7 @@ body.padswap #pad{flex-direction:row-reverse} /* 方向鍵放右邊 */
 <div id="modal" hidden><div class="card" id="mcard"></div></div>
 
 <script>
-window.ARCADE_V=280; // 每次改版加一
+window.ARCADE_V=281; // 每次改版加一
 (function(){ var q=/github\.io$/.test(location.hostname)?'?v='+window.ARCADE_V:'';
   document.write(['stairs','kart','bomb','volley','dodge3d','dodge','soccer3d','soccer','bowl3d','bowl','baseball3d','baseball','purple','rummy','mahjong','meow','poker','dice','deliver3d','deliver','chess','qi','racer','brawl','bball3d','bball','h3d','golf3d','golf','pool3d','pool','blocks','drum','dance','tower','jelly','rich','space','royale','draw','wolf','passbomb','bubble','claw','tank','dash','spin','night','chase3d','chase','sumo','sky','boxing','ace','classic','hide','spy','sling','room','boomcode','tug','truth','party','gems','chair','tacit','piano','stroke','dragon'].map(function(n){ return '<script src="'+n+'.js'+q+'"><\/script>'; }).join('')); })();
 </script>
